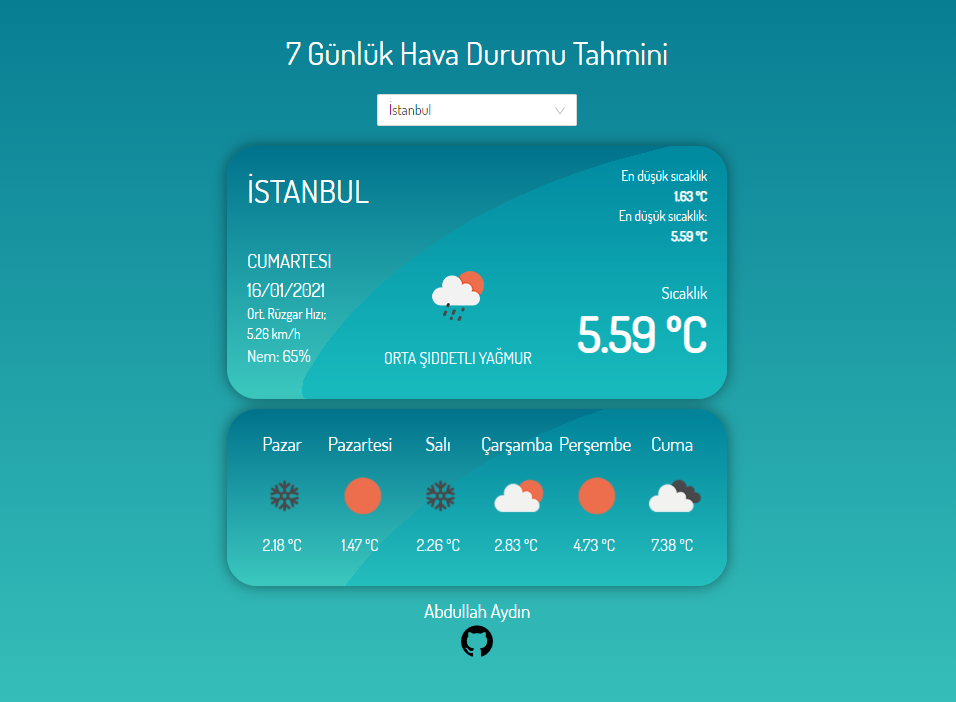
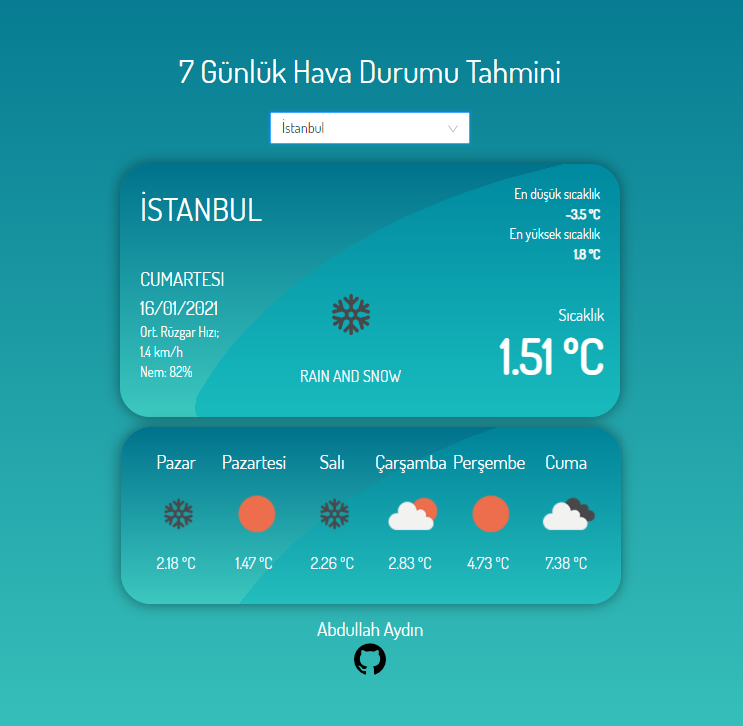
readme resimi ve en yüksek sıcaklık text'i  düzeltildi

diff --git a/src/components/MainMenu/MainMenu.js b/src/components/MainMenu/MainMenu.js
@@ -36,7 +36,7 @@ function MainMenu() {
                 <b>{`${today.minTemp} ºC`}</b>
               )}
             </h5>
-            <h5>En düşük sıcaklık</h5>
+            <h5>En yüksek sıcaklık</h5>
             <h5>
               {today.maxTemp === undefined ? (
                 <Spin />
@@ -63,7 +63,7 @@ function MainMenu() {
               <h5 className={styles.whiteColor}>
                 {`${today.wind_speed} km/h`}
               </h5>
-              <h5>{`Nem: ${today.humidity}%`}</h5>
+              <h5 className={styles.whiteColor}>{`Nem: ${today.humidity}%`}</h5>
             </>
           )}
         </Col>

diff --git a/src/components/MainMenu/styles.module.css b/src/components/MainMenu/styles.module.css
@@ -60,6 +60,7 @@
   display: flex !important;
   justify-content: flex-end !important;
   align-items: flex-end !important;
+  padding: 0px !important;
 }
 .temp_h1 {
   margin: 0;
